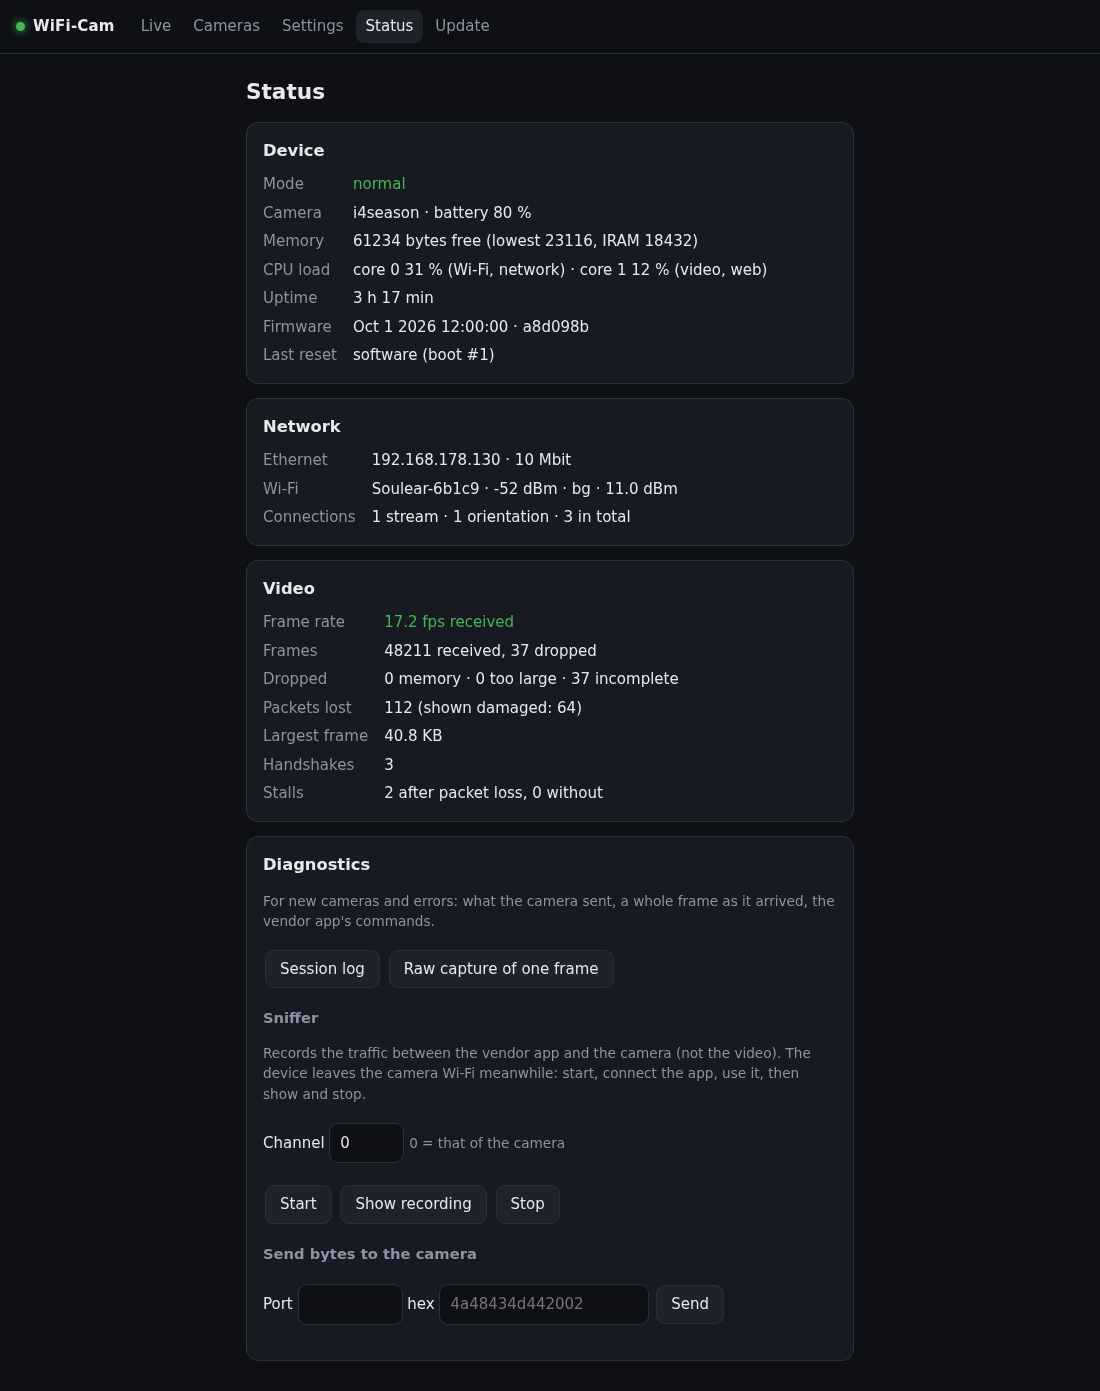
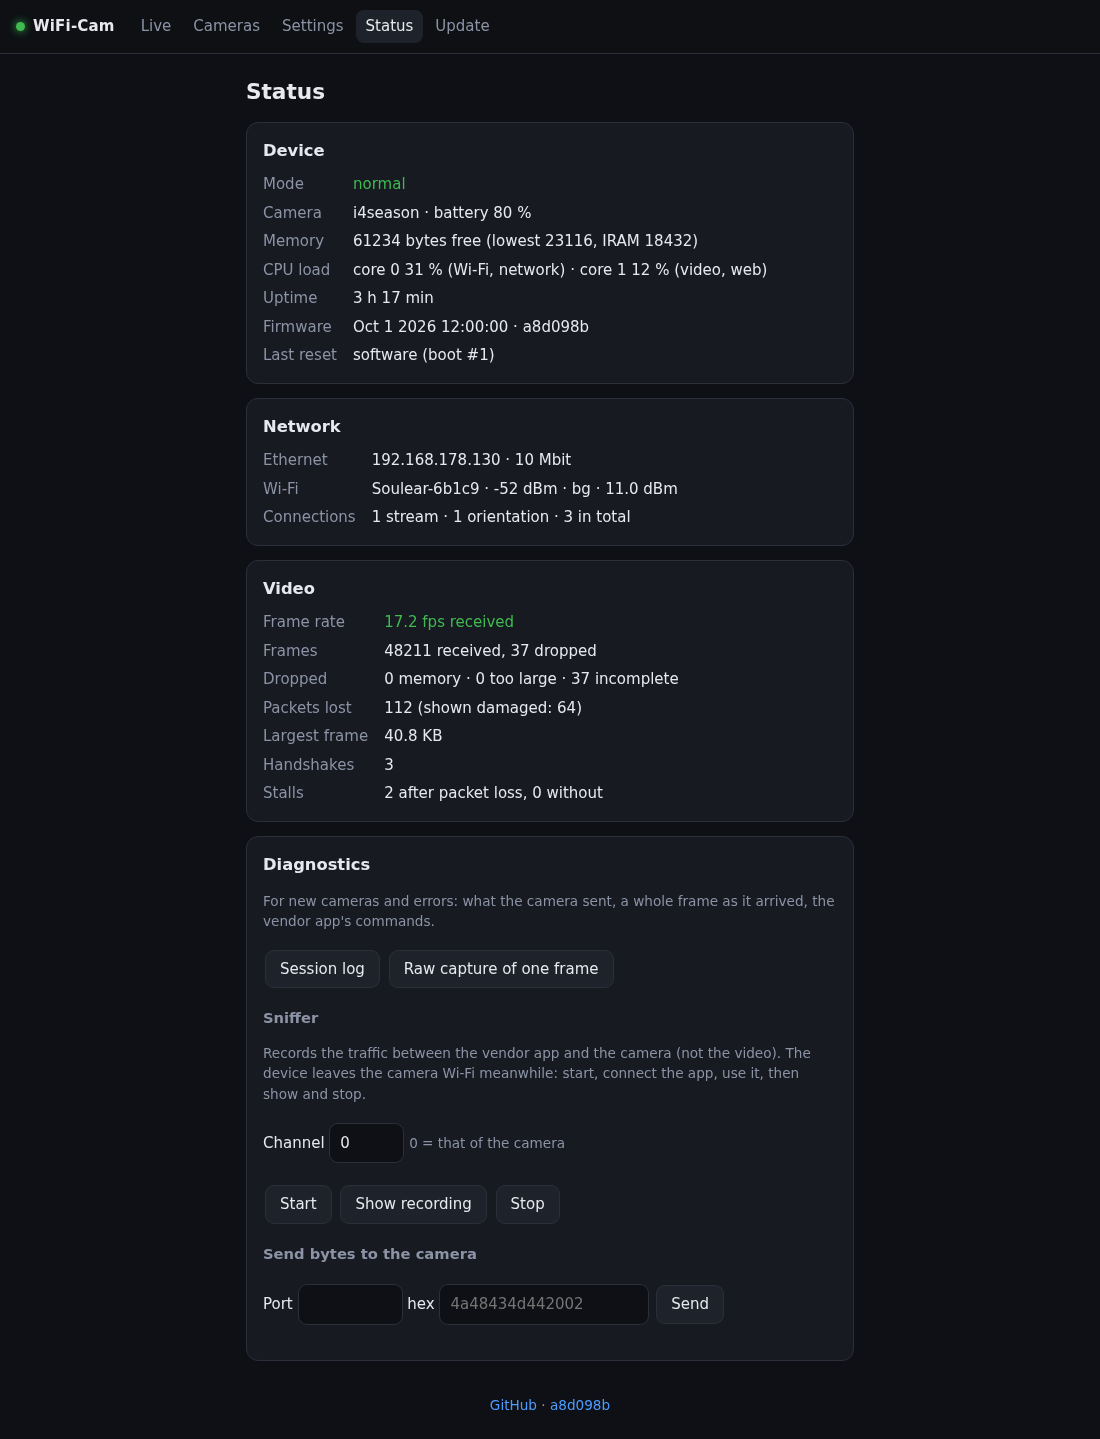
Web UI: footer with GitHub link and commit; CI: Node 24 actions, pin ubuntu-24.04

diff --git a/firmware/include/web_ui.h b/firmware/include/web_ui.h
@@ -67,6 +67,7 @@ h3{font-size:.92rem;margin:16px 0 6px;color:var(--muted);font-weight:600}
 button.sel{border-color:var(--accent);color:var(--accent)}
 .opts{display:grid;grid-template-columns:max-content 1fr;gap:6px 12px;align-items:center;margin:6px 0}
 .opts button{margin:0}
+footer{max-width:640px;margin:0 auto;padding:4px 16px 24px;text-align:center}
 )CSS";
 
 #define PAGE_HEAD(title) "<!doctype html><html lang='en'><head><title>" title "</title>" PAGE_STYLE
@@ -232,6 +233,11 @@ function mjpeg(img,url,onState,onFrame){
   return ()=>{stopped=true;clearTimeout(timer);clearInterval(wd);if(ctl)ctl.abort()};
 }
 async function settings(){try{return await (await fetch('/settings.json',{cache:'no-store'})).json()}catch(e){return null}}
+// Footer on every page: repository and commit of the running firmware
+fetch('/status',{cache:'no-store'}).then(r=>r.json()).then(s=>{
+  const c=String(s.commit||''),repo='https://github.com/HeikoGr/wifi-cam-proxy';
+  document.body.insertAdjacentHTML('beforeend','<footer class="small muted"><a href="'+repo+'">GitHub</a> · '+
+    (/^[0-9a-f]{7,}$/.test(c)?'<a href="'+repo+'/commit/'+c+'">'+c+'</a>':esc(c||'–'))+'</footer>')}).catch(()=>{});
 )JS";
 
 static const char INDEX_HTML[] = PAGE_HEAD("WiFi-Cam")
